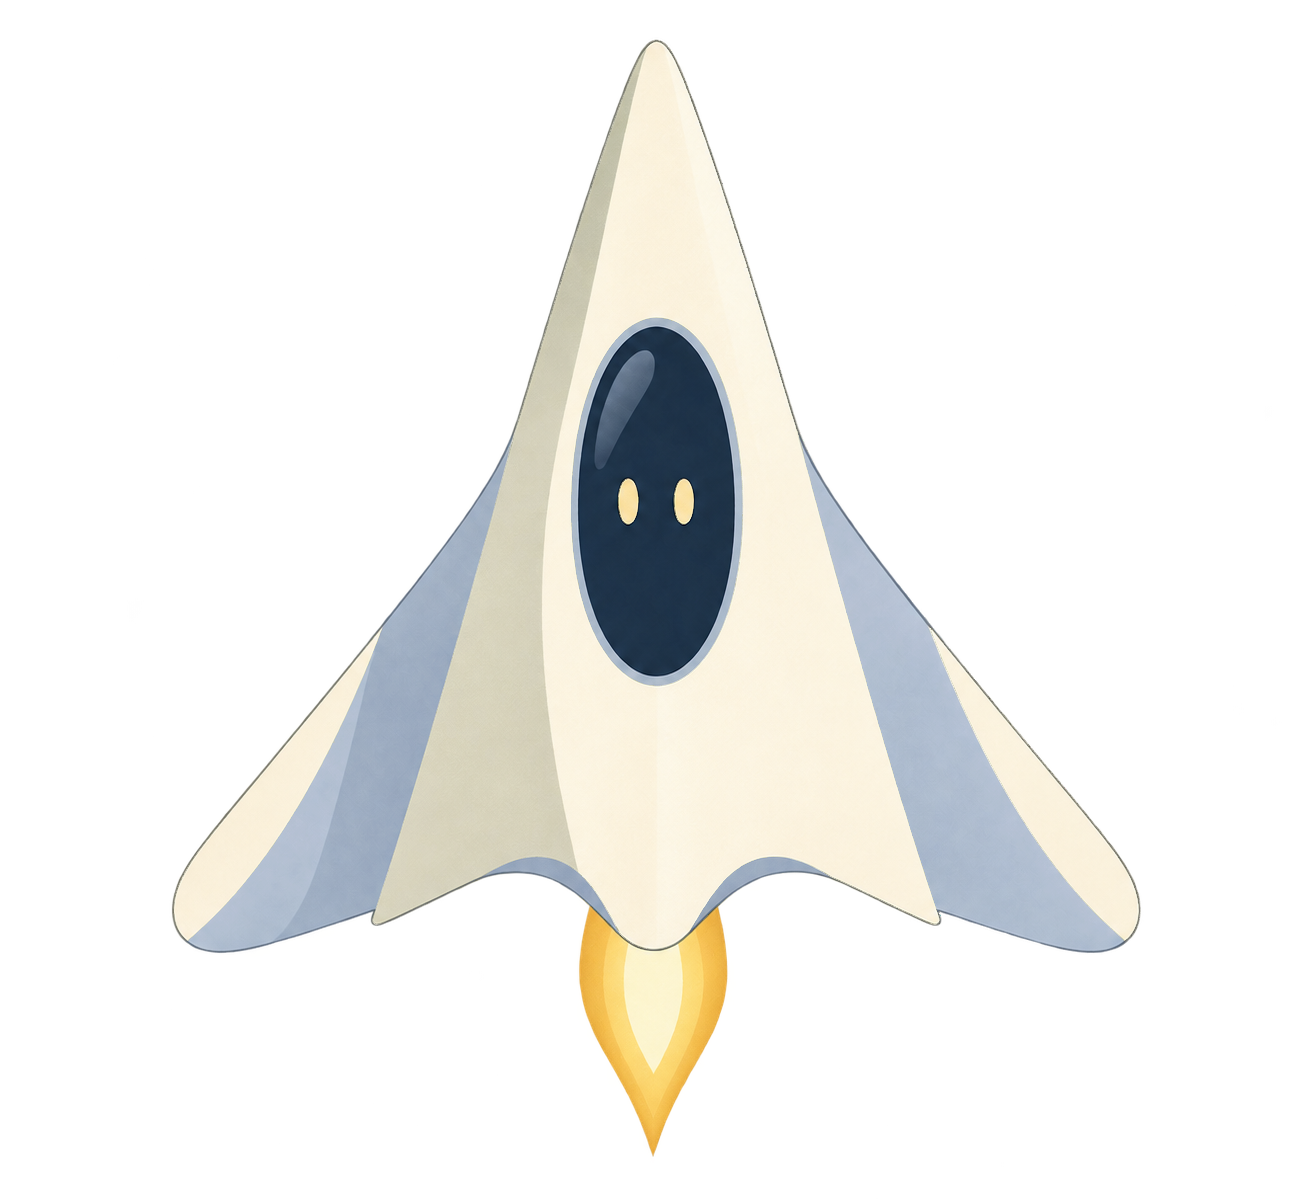
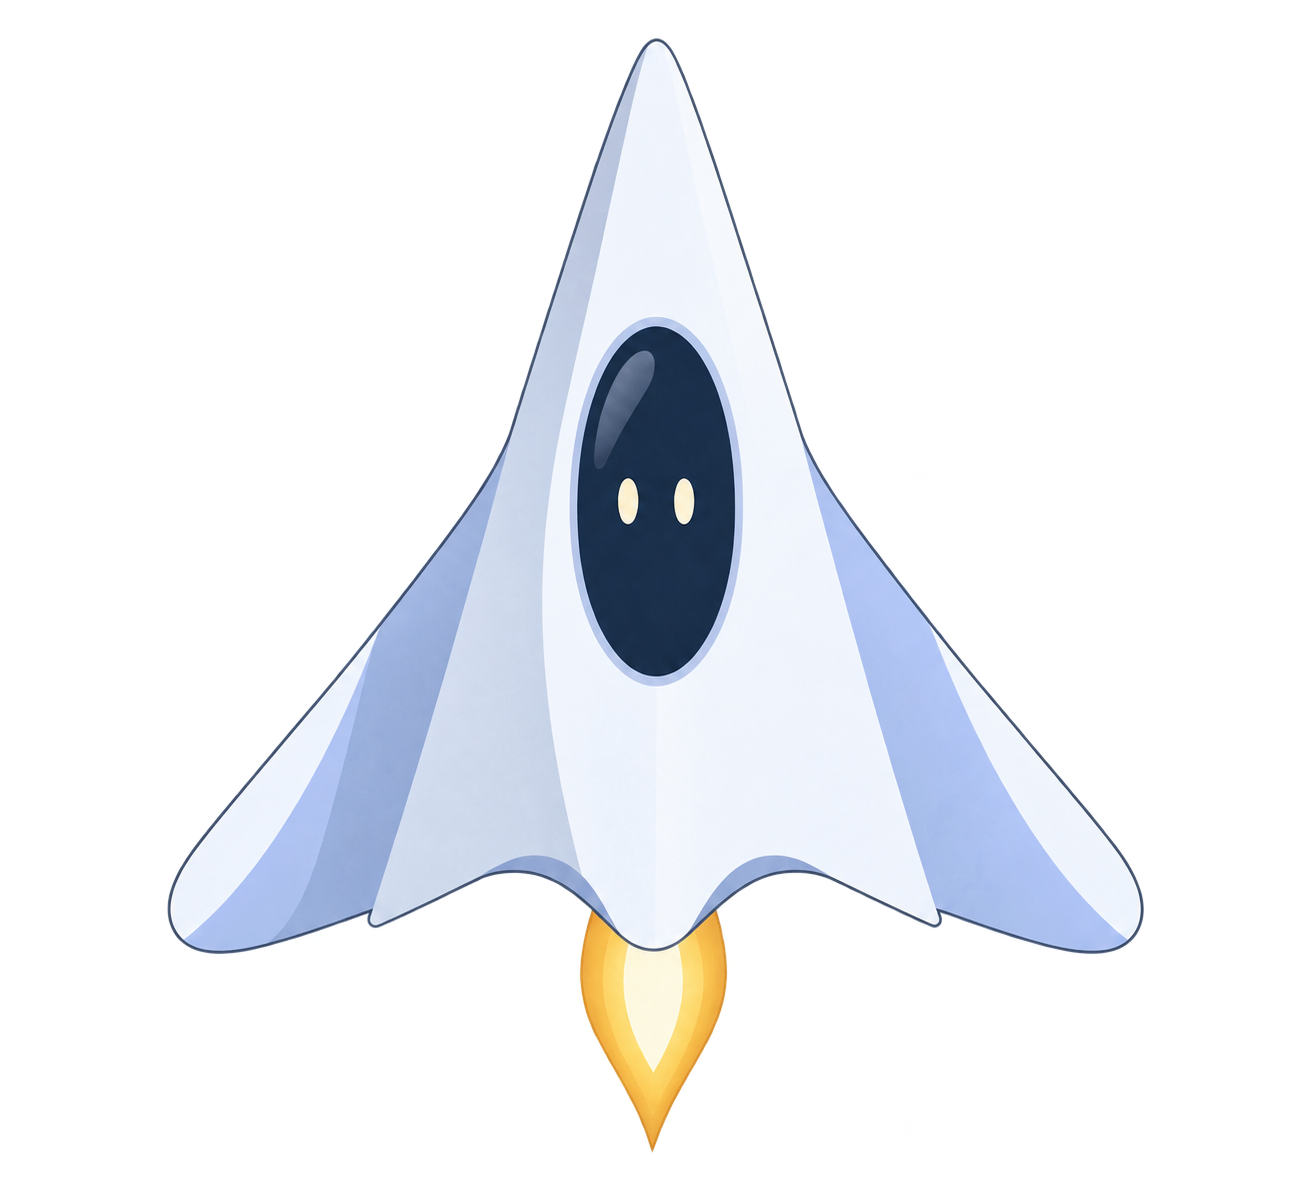
Unify the aircraft and orbit mark in a cool blue palette

Changed region(s): [[0.125, 0.0309, 0.875, 0.8023]]

diff --git a/public/index.html b/public/index.html
@@ -4,13 +4,13 @@
 <meta charset="utf-8"><meta name="viewport" content="width=device-width,initial-scale=1">
 <meta name="theme-color" content="#0d142b"><title>环灵 · 玩着学会编程</title>
 <base href="./">
-<link rel="preload" as="image" href="./assets/aircraft-2d.png?v=e35e49b6b232" fetchpriority="high">
-<link rel="icon" type="image/svg+xml" href="./assets/mark.svg"><link rel="stylesheet" href="./style.css"><link rel="stylesheet" href="./vault.css"><script type="module" src="./src/app.js"></script>
+<link rel="preload" as="image" href="./assets/aircraft-2d.png?v=b229b4da7676" fetchpriority="high">
+<link rel="icon" type="image/svg+xml" href="./assets/mark.svg?v=6ea3a0ad941e"><link rel="stylesheet" href="./style.css"><link rel="stylesheet" href="./vault.css"><script type="module" src="./src/app.js"></script>
 </head>
 <body>
 <div class="shell">
 <header class="masthead">
-<a class="brand" href="./" aria-label="环灵首页"><svg viewBox="0 0 48 48" aria-hidden="true" class="orbit-mark"><ellipse class="mark-orbit" cx="24" cy="25" rx="21" ry="11" transform="rotate(-32 24 25)"/><path class="mark-plane" d="M25 5 37 35 28 31 25 38 22 31 12 35Z"/><ellipse class="mark-cockpit" cx="25" cy="22" rx="3" ry="6"/><circle class="mark-star" cx="6" cy="32" r="2"/></svg><span><span id="brand-name">Loopuff</span><small>TOLANG</small></span></a>
+<a class="brand" href="./" aria-label="环灵首页"><svg class="orbit-mark" viewBox="0 0 64 64" aria-hidden="true"><ellipse class="mark-orbit" cx="32" cy="34" rx="27" ry="13.5" transform="rotate(-28 32 34)" fill="none" stroke="#eff3fc" stroke-width="2.2"/><path class="mark-plane" fill-rule="evenodd" d="M32 6 52 49 37 43 32 51 27 43 12 49Z M32 21a3.5 7.5 0 1 0 0 15a3.5 7.5 0 1 0 0-15Z" fill="#eff3fc"/><circle class="mark-star" cx="8.2" cy="46.7" r="2.2" fill="#b3c6f6"/></svg><span><span id="brand-name">Loopuff</span><small>TOLANG</small></span></a>
 <span class="edition">从零开始，读懂并写出代码。</span>
 <nav id="page-navigation" class="page-navigation" aria-label="主导航" hidden></nav>
 <div class="header-controls" role="group" aria-label="游戏操作"><a id="account-entry" class="account-entry" data-action="open-account" href="./zh/account/">登录 / 注册</a><label class="language-control"><span class="sr-only" id="language-label">Language</span><select id="language-select" aria-label="Language"></select></label><button id="pause-button" class="nav-button" hidden aria-label="暂停游戏">Ⅱ <span class="pause-word">暂停</span></button></div>
@@ -26,9 +26,9 @@
 <div class="first-command"><span>你的第一条信号</span><code>7.log()</code><svg viewBox="0 0 64 18" aria-hidden="true"><path d="M0 9H60M52 2l9 7-9 7"/></svg><strong>7</strong></div>
 </section>
 <div id="home-flight-field" class="home-flight-field">
-<img class="home-terrain" src="./assets/flight-map.svg" alt="" aria-hidden="true" draggable="false">
+<img class="home-terrain" src="./assets/flight-map.svg?v=9646e444ebba" alt="" aria-hidden="true" draggable="false">
 <div id="home-plane-slot" aria-hidden="true"></div>
-<button id="home-plane" class="home-plane" aria-keyshortcuts="ArrowUp ArrowDown ArrowLeft ArrowRight Home Enter" hidden><img src="./assets/aircraft-2d.png?v=e35e49b6b232" alt="" draggable="false"></button>
+<button id="home-plane" class="home-plane" aria-keyshortcuts="ArrowUp ArrowDown ArrowLeft ArrowRight Home Enter" hidden><img src="./assets/aircraft-2d.png?v=b229b4da7676" alt="" draggable="false"></button>
 </div>
 <div id="flight-hud" class="flight-hud" hidden><div class="mission"><span id="mission-number" class="eyebrow">航程 01</span><h2 id="mission-title">发出第一条信号</h2><p id="mission-hint">照着目标敲，飞船会自动发射。</p></div><div class="flight-stats"><div><small>本次得分</small><strong id="score">0000</strong></div><div id="shield-box" hidden><small>护盾</small><strong id="shields" aria-label="护盾剩余 3">◇ ◇ ◇</strong></div></div></div>
 <aside id="code-coach" class="code-coach" aria-label="当前代码的意思" hidden><div><span class="coach-label">这段在做什么</span><strong id="meaning-title"></strong></div><p id="meaning-text"></p><span class="meaning-connection" id="meaning-connection"></span></aside>

diff --git a/src/account.js b/src/account.js
@@ -32,7 +32,7 @@ export function mountAccount(root,{client,text:t,locale,saveNote,homeUrl}){
   function render(){
     if(disposed)return;
     const signed=!!client.user;
-    root.innerHTML=`<section class="account-page"><header><span class="eyebrow">${html(t.eyebrow)}</span><h1 id="learning-title">${html(signed?t.signed:f.mode==='register'?t.registerTitle:t.loginTitle)}</h1><p>${html(t.intro)}</p></header><div class="account-workspace"><aside class="account-story"><img src="${new URL('../assets/aircraft-2d.png?v=e35e49b6b232',import.meta.url).href}" alt="" aria-hidden="true"><p>${html(saveNote)}</p><a data-action="home" href="${html(homeUrl)}">${html(t.guest)} <span aria-hidden="true">↗</span></a></aside><div class="account-form-area">${signed?`<p class="account-email" dir="ltr">${html(client.user.email||'')}</p><button type="button" class="text-button" data-account-action="logout">${html(t.logout)}</button>`:`<div class="account-tabs" role="group" aria-label="${html(t.entry)}"><button type="button" data-account-mode="login" aria-pressed="${f.mode==='login'}">${html(t.login)}</button><button type="button" data-account-mode="register" aria-pressed="${f.mode==='register'}">${html(t.register)}</button></div><form data-account-form><label for="account-email">${html(t.email)}</label><input id="account-email" type="email" name="email" autocomplete="email" maxlength="254" required dir="ltr" value="${html(f.email)}"><label for="account-password">${html(t.password)}</label><input id="account-password" type="password" name="password" autocomplete="${f.mode==='register'?'new-password':'current-password'}" minlength="${f.mode==='register'?10:1}" maxlength="128" required dir="ltr" value=""><small>${html(f.mode==='register'?t.passwordHint:'')}</small><button class="primary" type="submit">${html(f.mode==='register'?t.register:t.login)}</button></form>`}<p class="account-status" role="status" aria-live="polite" data-error="${isError}">${html(message||(!signed&&client.available===false?t.unavailable:''))}</p></div></div></section>`;
+    root.innerHTML=`<section class="account-page"><header><span class="eyebrow">${html(t.eyebrow)}</span><h1 id="learning-title">${html(signed?t.signed:f.mode==='register'?t.registerTitle:t.loginTitle)}</h1><p>${html(t.intro)}</p></header><div class="account-workspace"><aside class="account-story"><img src="${new URL('../assets/aircraft-2d.png?v=b229b4da7676',import.meta.url).href}" alt="" aria-hidden="true"><p>${html(saveNote)}</p><a data-action="home" href="${html(homeUrl)}">${html(t.guest)} <span aria-hidden="true">↗</span></a></aside><div class="account-form-area">${signed?`<p class="account-email" dir="ltr">${html(client.user.email||'')}</p><button type="button" class="text-button" data-account-action="logout">${html(t.logout)}</button>`:`<div class="account-tabs" role="group" aria-label="${html(t.entry)}"><button type="button" data-account-mode="login" aria-pressed="${f.mode==='login'}">${html(t.login)}</button><button type="button" data-account-mode="register" aria-pressed="${f.mode==='register'}">${html(t.register)}</button></div><form data-account-form><label for="account-email">${html(t.email)}</label><input id="account-email" type="email" name="email" autocomplete="email" maxlength="254" required dir="ltr" value="${html(f.email)}"><label for="account-password">${html(t.password)}</label><input id="account-password" type="password" name="password" autocomplete="${f.mode==='register'?'new-password':'current-password'}" minlength="${f.mode==='register'?10:1}" maxlength="128" required dir="ltr" value=""><small>${html(f.mode==='register'?t.passwordHint:'')}</small><button class="primary" type="submit">${html(f.mode==='register'?t.register:t.login)}</button></form>`}<p class="account-status" role="status" aria-live="polite" data-error="${isError}">${html(message||(!signed&&client.available===false?t.unavailable:''))}</p></div></div></section>`;
     const password=root.querySelector('#account-password');if(password)password.value=f.password;
     for(const control of root.querySelectorAll('button,input'))control.disabled=busy;
   }

diff --git a/public/home.css b/public/home.css
@@ -1,5 +1,5 @@
 /* Indigo night: read first, then fly: the aircraft has its own bounded strip below the copy. */
-body[data-phase=welcome]{--home-ink:#f2f1ed;--home-green:#a6dab6;--home-muted:#adb9d2;background:#0f1325;color:var(--home-ink)}
+body[data-phase=welcome]{--home-ink:#eff3fc;--home-accent:#b3c6f6;--mint:#b3c6f6;--home-muted:#adb9d2;background:#0f1325;color:var(--home-ink)}
 body[data-phase=welcome] .masthead{position:relative;background:#0f1324;border-bottom:1px solid #344265;backdrop-filter:none}
 body[data-phase=welcome] .brand .mark-orbit{stroke:var(--home-ink)}
 body[data-phase=welcome] .brand .mark-plane{fill:var(--home-ink)}
@@ -17,7 +17,7 @@ body[data-phase=welcome] .welcome,body[data-phase=welcome] .welcome *{text-shado
 body[data-phase=welcome] .welcome .eyebrow{color:#bac4d7;font-family:var(--sans);letter-spacing:1px;font-size:12px}
 body[data-phase=welcome] .welcome .eyebrow i{background:#a6bcec}
 body[data-phase=welcome] .welcome h1{font-size:clamp(42px,4.5vw,64px);font-weight:650;line-height:1.28;letter-spacing:-.035em;margin:18px 0;color:var(--home-ink)}
-body[data-phase=welcome] .welcome h1 .hero-accent{color:var(--home-green)}
+body[data-phase=welcome] .welcome h1 .hero-accent{color:var(--home-accent)}
 body[data-phase=welcome] .welcome-copy{color:#bac4d7;font-size:17px;line-height:1.85;max-width:620px;margin:0 auto}
 body[data-phase=welcome] .welcome-actions{margin:24px 0 0;gap:24px;justify-content:center}
 body[data-phase=welcome] .welcome-actions .primary{min-width:190px;min-height:52px;background:#b3c6f6;color:#10182d;border:1px solid #b3c6f6;border-radius:7px;padding:13px 24px;box-shadow:none}
@@ -28,7 +28,7 @@ body[data-phase=welcome] .first-command{position:relative;display:flex;flex-wrap
 body[data-phase=welcome] .first-command>span{font-family:var(--sans);font-size:12px;color:#b7c1d5;unicode-bidi:plaintext}
 body[data-phase=welcome] .first-command code{color:#c2cbdb;font-size:20px}
 body[data-phase=welcome] .first-command svg{width:40px;stroke:#344265}
-body[data-phase=welcome] .first-command strong{color:#e4d0af;font-size:24px}
+body[data-phase=welcome] .first-command strong{color:#b3c6f6;font-size:24px}
 .home-flight-field{display:none}
 .universe[data-phase=welcome] .home-flight-field{display:block;position:relative;isolation:isolate;contain:layout paint;overflow:hidden;flex:none;width:100%;height:clamp(190px,24svh,280px);margin:18px auto 0}
 .home-flight-field .home-terrain{display:block;position:absolute;inset:0;width:100%;height:100%;object-fit:contain;pointer-events:none;z-index:0}
@@ -65,11 +65,11 @@ body[data-phase=welcome] .page-foot code{color:#bfc8da;text-shadow:none}
 /* Sparse stars and distant blue-violet haze stay behind the reading area. */
 .universe[data-phase=welcome]{background:
  radial-gradient(circle at 9% 19%,#bfcff5aa 0 1px,transparent 1.6px),
- radial-gradient(circle at 23% 47%,#e8d6a97a 0 1px,transparent 1.7px),
+ radial-gradient(circle at 23% 47%,#aebff47a 0 1px,transparent 1.7px),
  radial-gradient(circle at 38% 12%,#a4bce766 0 1px,transparent 1.5px),
  radial-gradient(circle at 64% 8%,#d3dfff88 0 1px,transparent 1.8px),
  radial-gradient(circle at 84% 24%,#bbcdf6aa 0 1px,transparent 1.6px),
- radial-gradient(circle at 91% 63%,#f2d6a199 0 1px,transparent 1.8px),
+ radial-gradient(circle at 91% 63%,#c0ccf299 0 1px,transparent 1.8px),
  radial-gradient(circle at 6% 81%,#bbcdf677 0 1px,transparent 1.6px),
  radial-gradient(circle at 74% 87%,#aebbf466 0 1px,transparent 1.6px),
  radial-gradient(ellipse at 82% 68%,#36346755,transparent 48%),

diff --git a/public/style.css b/public/style.css
@@ -185,7 +185,7 @@ body[data-view=game] .first-command{justify-content:center}
 @media(max-width:1000px){.flight-hud{padding-top:140px}.code-coach{top:255px}}
 
 /* Orbit and aircraft form one mark; the scene artwork stays unchanged. */
-.brand .orbit-mark{width:44px;height:44px;flex:none;overflow:visible}.brand .mark-orbit{fill:none;stroke:var(--cream);stroke-width:1.6}.brand .mark-plane{fill:var(--cream)}.brand .mark-cockpit{fill:var(--night)}.brand .mark-star{fill:var(--mint)}.hero-accent{color:var(--mint)}
+.brand .orbit-mark{width:44px;height:44px;flex:none;overflow:visible}.brand .mark-orbit{fill:none;stroke:#eff3fc;stroke-width:2.2}.brand .mark-plane{fill:#eff3fc}.brand .mark-cockpit{fill:var(--night)}.brand .mark-star{fill:#b3c6f6}.hero-accent{color:var(--mint)}
 @media(max-width:560px){.brand .orbit-mark{width:34px;height:34px}}
 
 /* Homepage decoration and supporting labels remain readable over the artwork. */

diff --git a/src/plane.js b/src/plane.js
@@ -2,7 +2,7 @@
 const aircraft=typeof Image==='undefined'?null:new Image();
 if(aircraft){
  aircraft.decoding='async';
- aircraft.src=new URL('../assets/aircraft-2d.png?v=e35e49b6b232',import.meta.url).href;
+ aircraft.src=new URL('../assets/aircraft-2d.png?v=b229b4da7676',import.meta.url).href;
 }
 export function whenPlaneReady(redraw){
  if(aircraft?.complete&&aircraft.naturalWidth){redraw();return ()=>{};}
